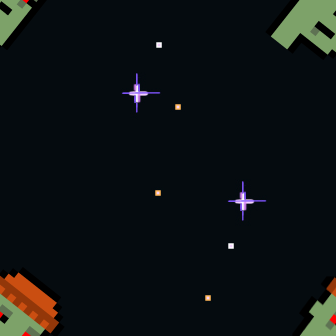
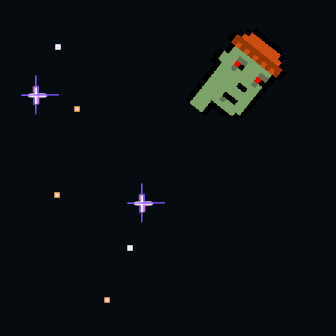
Making some last changes to the UI

diff --git a/styles/Home.module.css b/styles/Home.module.css
@@ -13,9 +13,7 @@
   color: white;
 }
 
-.imageWrapper div:first-child {
-  width: 50vmin;
-}
+
 
 .description {
   font-size: x-large;
@@ -59,6 +57,16 @@
   animation: shake 0.5s;
   /* When the animation is finished, start again */
   animation-iteration-count: infinite;
+}
+
+.imageWrapper div:first-child {
+  width: 50vmin;
+  border-image-slice:15 15 15 15;
+  border-image-width:20px;
+  border-image-outset:15px;
+  border-image-repeat:round round;
+  border-image-source:url("https://yari-demos.prod.mdn.mozit.cloud/en-US/docs/Web/CSS/CSS_Background_and_Borders/Border-image_generator/border-image-3.png");
+  border-style:solid;
 }
 
 @keyframes shake {

diff --git a/pages/index.tsx b/pages/index.tsx
@@ -120,7 +120,7 @@ export default function Home() {
 
         <a href="https://opensea.io/collection/bankrunner-yf94gwllm8" target="_blank" rel="noreferrer">
           <div className={styles.imageWrapper}>
-            <Image src={punkImage} className={styles.logo} alt="logo" />
+            <Image src={punkImage} className={styles.hearts} alt="logo" />
           </div>
         </a>
         <h5 className={[styles.description, styles.descriptionSize].join(' ')}>
